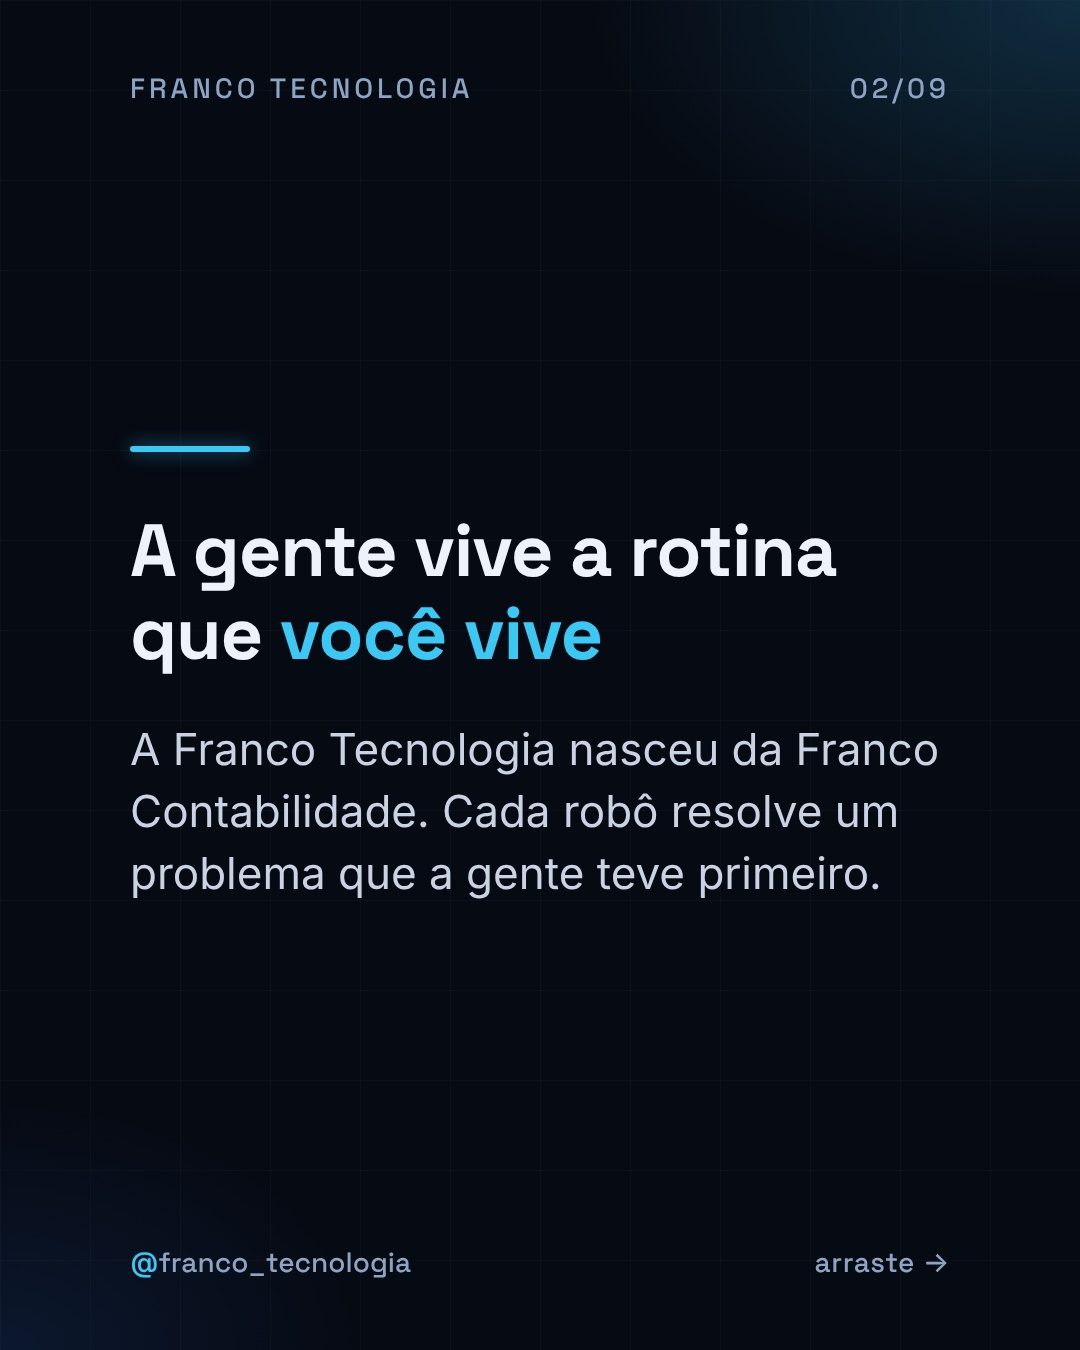
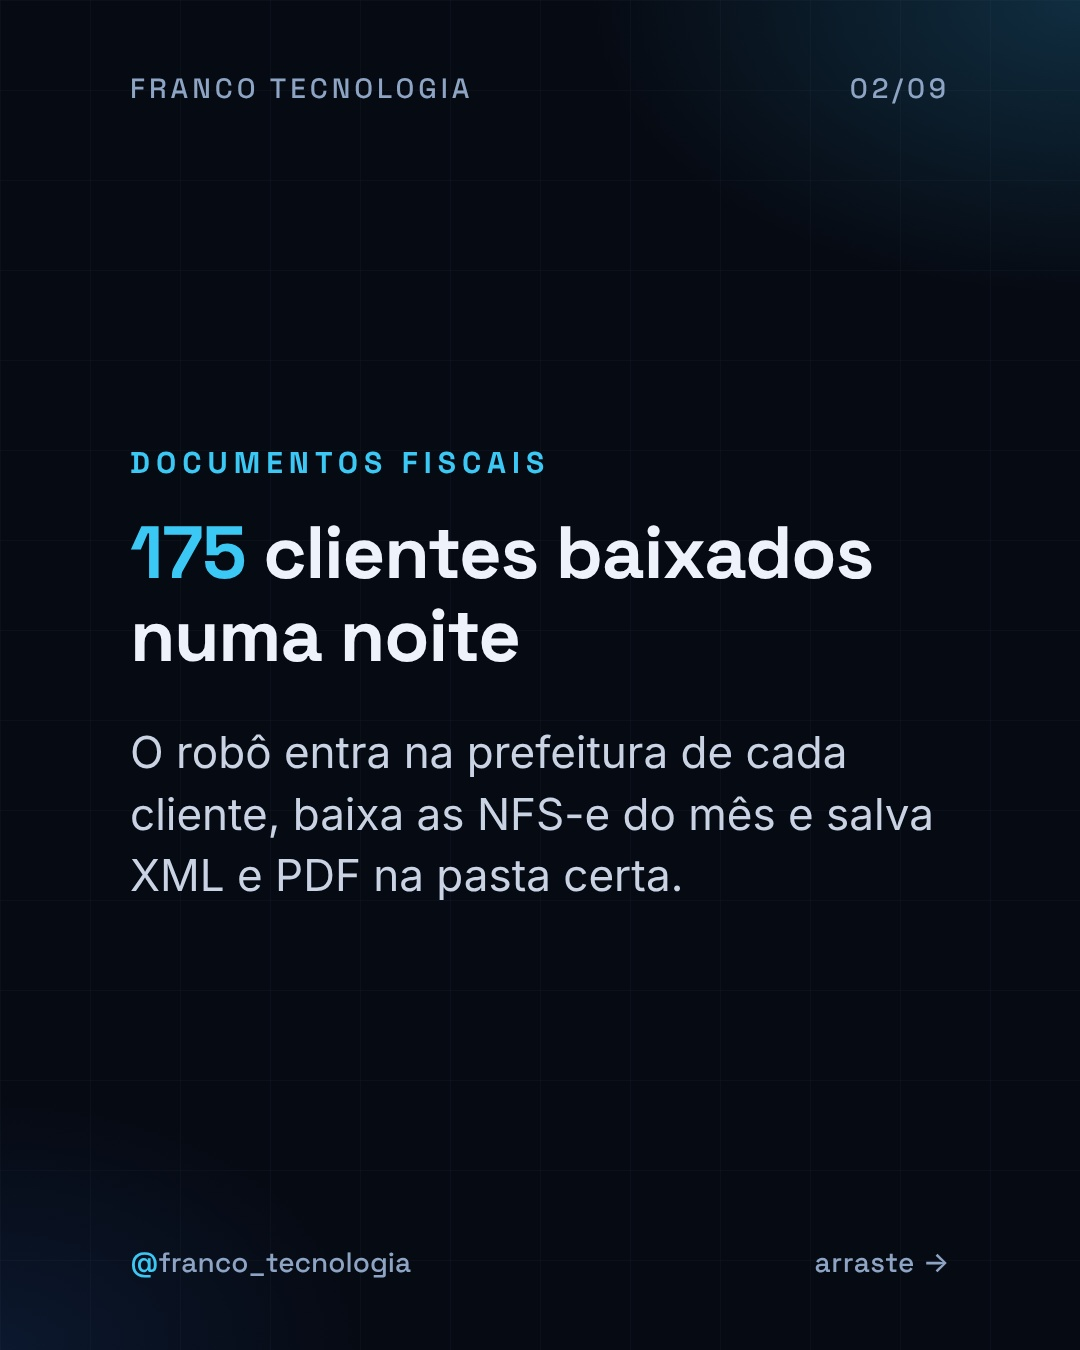
Refaz o post Comece aqui com números reais dos robôs
Claude-Session: https://claude.ai/code/session_01L6goYupZAoaub9xyXveg9s

Changed region(s): [[0.1222, 0.5289, 0.8556, 0.6844], [0.1222, 0.3111, 0.825, 0.4978], [0.3667, 0.3111, 0.3972, 0.3422]]

diff --git a/post13-comece-aqui/slides.html b/post13-comece-aqui/slides.html
@@ -2,83 +2,83 @@
 <html lang="pt-BR">
 <head>
   <meta charset="utf-8">
-  <title>Comece aqui: o que a Franco Tecnologia faz</title>
+  <title>Comece aqui: o que nossos robôs fizeram esta semana</title>
   <link rel="stylesheet" href="../template/carrossel.css">
 </head>
 <body>
 
 <section class="slide">
   <div class="conteudo">
-    <div class="rotulo">Prazer, Franco Tecnologia</div>
-    <h1>Robôs para escritórios <em>contábeis</em></h1>
-    <p>Nascemos dentro de um escritório contábil. Sabemos onde dói.</p>
+    <div class="rotulo">Franco Tecnologia</div>
+    <h1>O que nossos robôs fizeram <em>esta semana</em></h1>
+    <p>Números reais da rotina de escritórios contábeis. Nada de promessa.</p>
   </div>
 </section>
 
 <section class="slide">
   <div class="conteudo">
-    <div class="barra"></div>
-    <h2>A gente vive a rotina que <em>você vive</em></h2>
-    <p>A Franco Tecnologia nasceu da Franco Contabilidade. Cada robô resolve um problema que a gente teve primeiro.</p>
+    <div class="rotulo">Documentos fiscais</div>
+    <h2><em>175</em> clientes baixados numa noite</h2>
+    <p>O robô entra na prefeitura de cada cliente, baixa as NFS-e do mês e salva XML e PDF na pasta certa.</p>
   </div>
 </section>
 
 <section class="slide">
   <div class="conteudo">
-    <div class="rotulo">Envio de guias</div>
-    <h2>Guias enviadas <em>sozinhas</em></h2>
-    <p>O robô pega a guia, salva na pasta do cliente e envia por e-mail ou WhatsApp.</p>
+    <div class="rotulo">Sem digitação</div>
+    <h2><em>628</em> notas de um cliente só</h2>
+    <p>Baixadas, nomeadas e organizadas pelo robô. A equipe só confere.</p>
   </div>
 </section>
 
 <section class="slide">
   <div class="conteudo">
-    <div class="rotulo">Emissão de notas</div>
-    <h2>Nota fiscal emitida <em>sem digitar</em></h2>
-    <p>Emissor de NFS-e e NF-e, com emissão recorrente agendada.</p>
+    <div class="rotulo">ISS retido</div>
+    <h2><em>156</em> notas com retenção achadas no XML</h2>
+    <p>Em 22 empresas, num mês. O robô lê nota por nota e separa o que a equipe separava à mão.</p>
   </div>
 </section>
 
 <section class="slide">
   <div class="conteudo">
-    <div class="rotulo">Painel do escritório</div>
-    <h2>Tudo num <em>painel só</em></h2>
-    <p>O que o robô fez, o que deu erro e o que a equipe precisa resolver.</p>
+    <div class="rotulo">Guias</div>
+    <h2>Guias de parcelamento enviadas <em>sozinhas</em></h2>
+    <p>Emitidas, salvas na pasta do cliente e enviadas por e-mail ou WhatsApp, todo mês.</p>
   </div>
 </section>
 
 <section class="slide">
   <div class="conteudo">
-    <div class="rotulo">Sob medida</div>
-    <h2>Automação para a <em>sua</em> rotina</h2>
-    <p>Tem uma tarefa repetitiva que não está aqui? A gente avalia e constrói.</p>
+    <div class="rotulo">Notas fiscais</div>
+    <h2>NFS-e emitida já com <em>IBS e CBS</em></h2>
+    <p>Emissor no padrão nacional e no ISSNet, com nota recorrente que sai sozinha todo mês.</p>
   </div>
 </section>
 
 <section class="slide">
   <div class="conteudo">
-    <div class="rotulo">Como funciona</div>
+    <div class="rotulo">Painel</div>
+    <h2>A equipe vê tudo num <em>painel só</em></h2>
+    <p>Cada robô registra o que fez, o que falhou e o que precisa de alguém. Pendência vira tarefa, não mensagem perdida.</p>
+  </div>
+</section>
+
+<section class="slide">
+  <div class="conteudo">
+    <div class="rotulo">Como começa</div>
     <ol class="lista">
-      <li>Diagnóstico gratuito de 20&nbsp;min</li>
-      <li>Escolhemos a primeira automação</li>
-      <li>Robô rodando na sua carteira</li>
-      <li>Equipe livre para o cliente</li>
+      <li>Diagnóstico de 20&nbsp;min na sua rotina</li>
+      <li>A automação que mais devolve horas</li>
+      <li>Robô rodando com seus acessos</li>
+      <li>Você acompanha pelo painel</li>
     </ol>
   </div>
 </section>
 
 <section class="slide">
   <div class="conteudo">
-    <div class="rotulo">Por aqui</div>
-    <h2>Post novo <em>todo dia</em> às&nbsp;10h</h2>
-    <p>Automação, rotina do escritório e reforma tributária na prática.</p>
-  </div>
-</section>
-
-<section class="slide">
-  <div class="conteudo">
     <div class="barra"></div>
-    <h2>Quer ver o que dá para automatizar aí?</h2>
+    <h2>Qual desses você quer no seu escritório?</h2>
     <p>Mande DIAGNÓSTICO no direct que a gente marca 20 minutos.</p>
     <div class="botao">Mande DIAGNÓSTICO</div>
   </div>

diff --git a/post13-comece-aqui/legenda.md b/post13-comece-aqui/legenda.md
@@ -1,25 +1,22 @@
-# Post 13: Comece aqui (post para fixar no perfil)
+# Post 13: Comece aqui, o que nossos robôs fizeram esta semana (post para fixar no perfil)
 
 CTA do último slide: "Mande DIAGNÓSTICO"
 
 ## Legenda
 
-Chegou agora? Prazer, somos a Franco Tecnologia. 👋
+Chegou agora? Em vez de contar o que a gente promete, olha o que nossos robôs fizeram nesta semana na rotina de escritórios contábeis. 👇
 
-A gente faz robôs para escritórios contábeis. E nasceu dentro de um: a Franco Contabilidade. Cada automação resolve um problema que a gente viveu primeiro.
+📂 175 clientes com as NFS-e do mês baixadas numa noite: o robô entra na prefeitura de cada um e salva XML e PDF na pasta certa.
+🧾 628 notas de um cliente só, baixadas e organizadas sem ninguém digitar.
+🔎 156 notas com ISS retido encontradas no XML, em 22 empresas, num mês só.
+📨 Guias de parcelamento emitidas, salvas na pasta do cliente e enviadas por e-mail ou WhatsApp, todo mês.
+🧮 NFS-e emitida no padrão nacional e no ISSNet, já com IBS e CBS, e nota recorrente que sai sozinha.
+📊 Tudo num painel: o que o robô fez, o que falhou e o que precisa de alguém da equipe.
 
-O que dá para tirar das costas da sua equipe:
-🤖 Envio de guias: o robô pega a guia, salva na pasta do cliente e envia por e-mail ou WhatsApp.
-🧾 Emissão de notas: NFS-e e NF-e sem digitar, com emissão recorrente agendada.
-📊 Painel do escritório: o que o robô fez, o que deu erro e o que a equipe precisa resolver.
-🛠 Sob medida: tem outra tarefa repetitiva? A gente avalia e constrói.
+Como começa: um diagnóstico de 20 minutos na sua rotina, a gente escolhe a automação que mais devolve horas, o robô passa a rodar com os seus acessos e você acompanha tudo pelo painel.
 
-Como funciona: diagnóstico gratuito de 20 minutos, a gente escolhe junto a primeira automação, o robô começa a rodar na sua carteira e a equipe fica livre para o cliente.
-
-Por aqui sai post novo todo dia às 10h, sobre automação, rotina do escritório e reforma tributária na prática.
-
-Quer ver o que dá para automatizar no seu escritório? Mande DIAGNÓSTICO no direct. 📩
+Qual desses você quer no seu escritório? Mande DIAGNÓSTICO no direct. 📩
 
 ## Hashtags
 
-#Contabilidade #EscritorioContabil #Contador #AutomacaoContabil #TecnologiaContabil #RoboContabil #GestaoContabil #FrancoTecnologia
+#Contabilidade #EscritorioContabil #Contador #AutomacaoContabil #TecnologiaContabil #RoboContabil #NFSe #GestaoContabil

diff --git a/pauta.md b/pauta.md
@@ -17,7 +17,7 @@ Pilares, em rodízio para não repetir assunto em dias seguidos:
 | 10 | R | Split payment: o imposto separado no pagamento | Compartilhe | agendado 2026-11-02 |
 | 11 | A | Quanto custa o retrabalho no escritório (calculadora como isca) | Comente PLANILHA | agendado 2026-10-31 |
 | 12 | A | Fechamento do mês em 7 passos: quais dá para automatizar | Comente o número | agendado 2026-11-03 |
-| 13 | E | Comece aqui: o que a Franco Tecnologia faz (fixar no perfil) | Mande DIAGNÓSTICO | agendado 2026-11-04 |
+| 13 | E | Comece aqui: o que nossos robôs fizeram esta semana (fixar no perfil) | Mande DIAGNÓSTICO | agendado 2026-11-04 |
 | 13b | R | Crédito amplo de IBS e CBS: o que muda na compra dos seus clientes | Salve | a fazer |
 | 14 | E | Qual tarefa você entregaria para um robô amanhã? (enquete 1 a 5) | Comente o número | a fazer |
 | 15 | F | 13º salário: prazos e erros comuns no fechamento de novembro e dezembro | Salve | a fazer |
